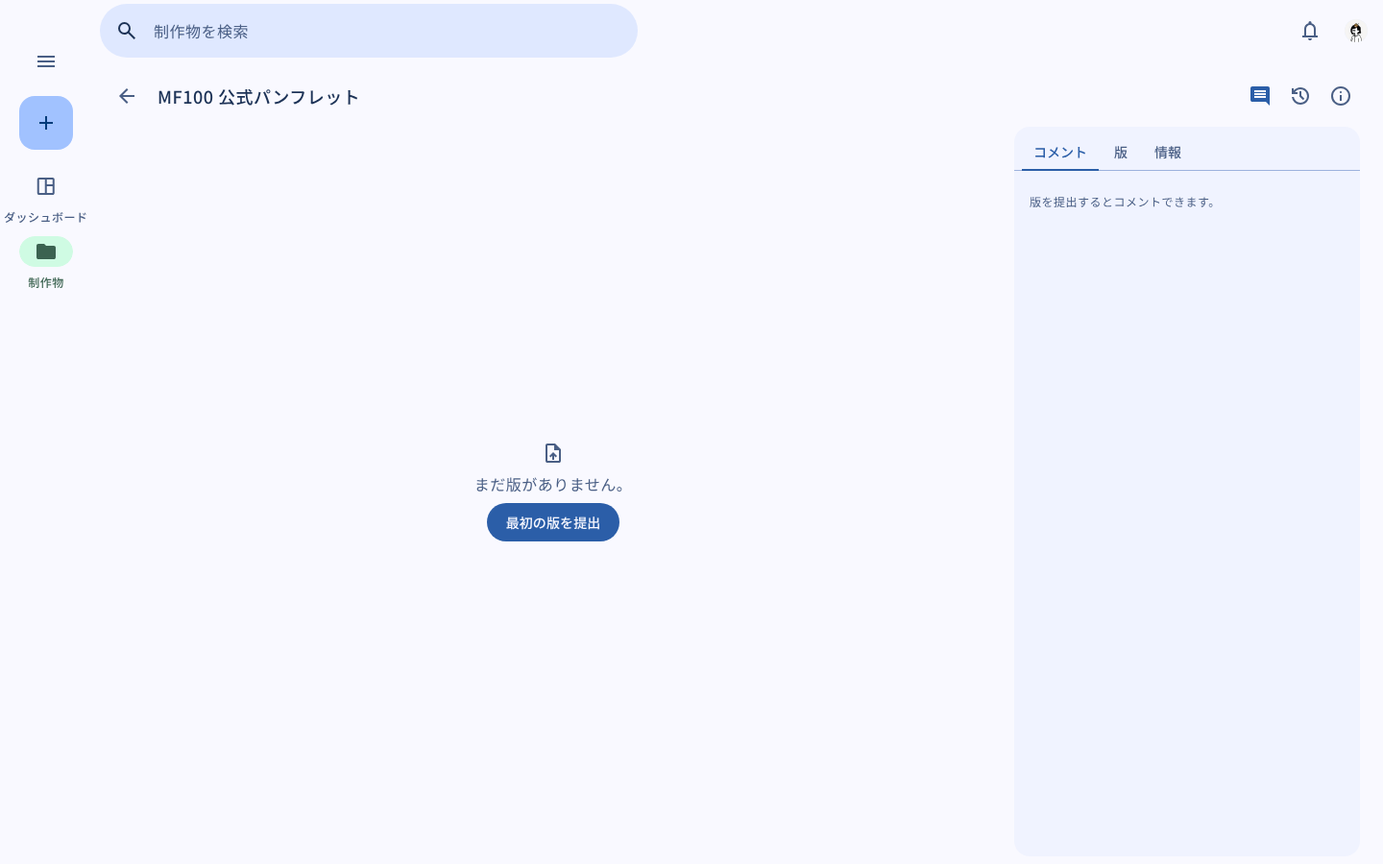
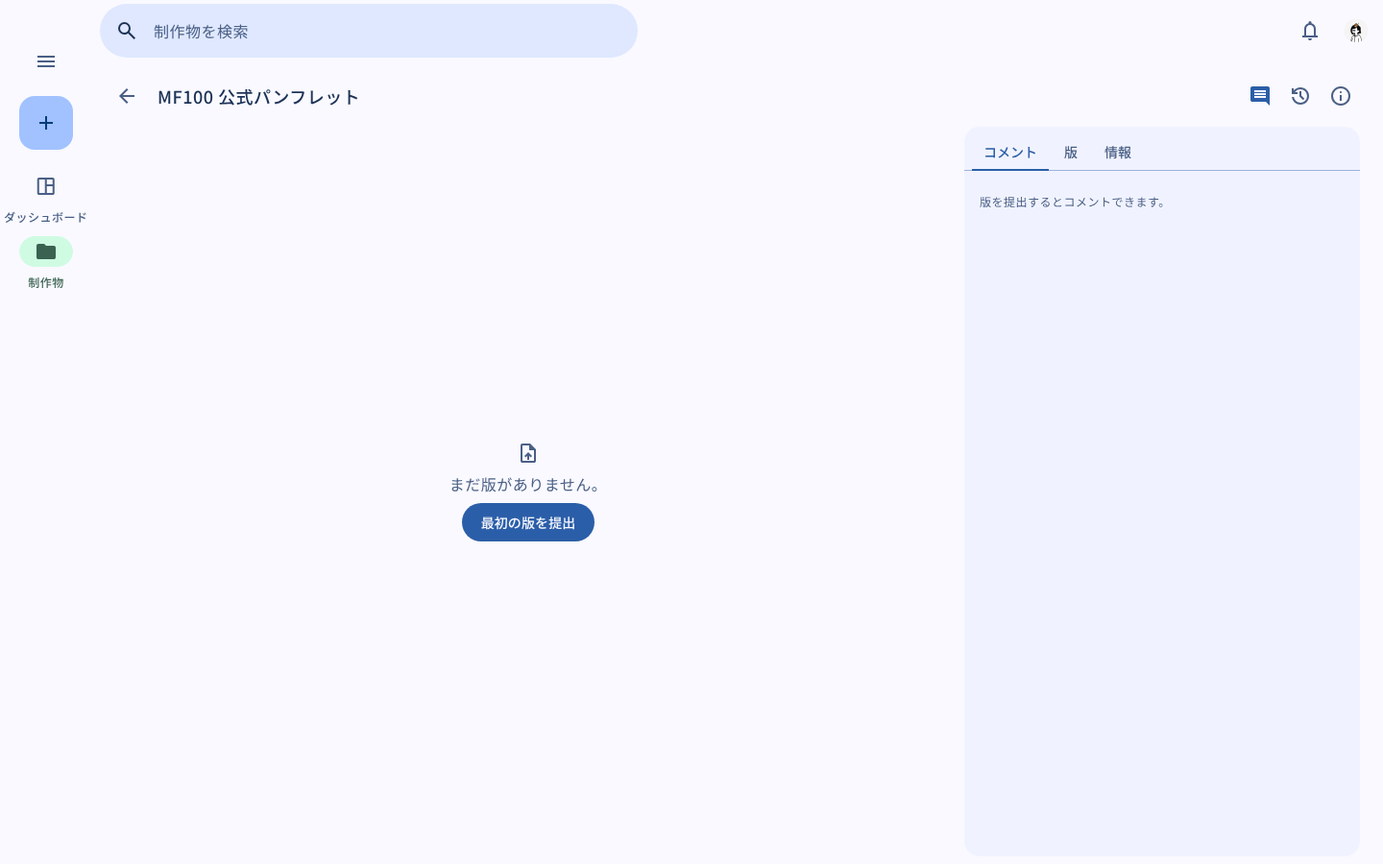
web: M3 の Layout scaffold（bars / rails / panes）に当てはめ、固定ペインを expanded 360 / large 以上 412 にする
- m3.material.io は環境のネットワークポリシーで到達不可のため、yusukebe/ax（GitHub から取得、bun で実行）で Compose の PaneScaffoldDirective 原典と Android ガイドを取得し、検索引用で m3.material.io の文言を補った（docs/UI_M3E.md §13 に出典と要確認を明記）
- 裏取り済み: scaffold の 3 領域と置く順、レールはペインの外で先頭端、ツールバーの窓端余白 16/24、ペイン数（1/1/2/3）、余白・スペーサー 24、固定ペイン 360（expanded）/ 412（large 以上）
- CSS に scaffold の領域対応を注記。large 以上の補助ペインと整列列を 412 に
- 撮影 34 画面・a11y 再取得、DECISIONS / HANDOVER 更新

Claude-Session: https://claude.ai/code/session_01X9TznCihnnBEBhcMh6UZ9t

Changed region(s): [[0.3125, 0.4978, 0.4688, 0.6222], [0.7188, 0.2178, 0.875, 0.2489], [0.7188, 0.1556, 0.875, 0.1867]]

diff --git a/apps/web/src/styles.css b/apps/web/src/styles.css
@@ -178,7 +178,12 @@ m3e-search-bar {
   color: var(--mf-on-surface-variant);
 }
 
-/* ---------- アプリ外枠（M3 Layout: ウィンドウサイズクラス compact <600 / medium 600–839 / expanded 840–1199 / large ≥1200） */
+/* ---------- アプリ外枠 ＝ M3 の Layout scaffold（bars / rails / panes）
+ * - bars（画面を縁取る）: .shell__appbar（上）、.shell__bar（compact の下部ナビ）
+ * - rails（ペインの外周）: .shell__nav（ナビゲーションレール。先頭端に全高、ペインの外）
+ * - panes（内容）: .shell__content（1 ペイン。エディタは .ws__body で 2 ペイン）
+ * 置く順: bars と rails を画面の縁に先に置き、残りを panes で埋める。
+ * ウィンドウサイズクラス: compact <600 / medium 600–839 / expanded 840–1199 / large ≥1200 */
 .shell {
   display: grid;
   grid-template-columns: auto 1fr;
@@ -1112,11 +1117,16 @@ m3e-search-bar {
   flex: 1;
   display: grid;
   grid-template-columns: minmax(0, 1fr);
-  gap: 24px;
+  gap: 24px; /* M3 のペイン間スペーサー 24（expanded 以上） */
   min-height: 0;
 }
 .ws__body--panel {
-  grid-template-columns: minmax(0, 1fr) 360px; /* M3 supporting pane: 固定 360 */
+  grid-template-columns: minmax(0, 1fr) 360px; /* M3 supporting pane: expanded の固定ペイン 360（Compose の既定 DefaultPreferredWidth） */
+}
+@media (min-width: 1200px) {
+  .ws__body--panel {
+    grid-template-columns: minmax(0, 1fr) 412px; /* large 以上の固定ペインは 412（M3 Breakpoints: large/extra-large、Compose DefaultPreferredWidthXL） */
+  }
 }
 .ws__viewer {
   position: relative;
@@ -1462,6 +1472,11 @@ m3e-search-bar {
   position: relative;
   width: 360px; /* 補助ペインと同じ幅 */
   flex: none;
+}
+@media (min-width: 1200px) {
+  .gutter {
+    width: 412px;
+  }
 }
 .gutter__item {
   position: absolute;

diff --git a/docs/DECISIONS.md b/docs/DECISIONS.md
@@ -22,20 +22,20 @@
 
 ## 実装上の仮置き（制度ではなく技術判断。レビュー対象）
 
-| 項目                     | 仮置き                                                                                                                                                                                                                                                                                                                                   | 根拠・備考                                                                                                       |
-| ------------------------ | ---------------------------------------------------------------------------------------------------------------------------------------------------------------------------------------------------------------------------------------------------------------------------------------------------------------------------------------- | ---------------------------------------------------------------------------------------------------------------- |
-| 制作物の登録者           | **Nogiku の権限で管理する（利用者決定 2026-10-10）**。組織権限 `works:create` を要求。Nogiku Access 未接続の MVP では全員が `["*"]` を持ち制限なし。登録者は主管担当に含まれる                                                                                                                                                           | `packages/domain/src/acl/OrgPermission.ts`。接続時は `NOGIKU_ACCESS_ENABLED=true` と `users.orgPermissions` 同期 |
-| システム管理者の初期設定 | 環境変数 `MF100_SYSTEM_ADMIN_SUBJECTS` の Nogiku sub を初回ログインで昇格。以後は管理画面                                                                                                                                                                                                                                                | ブートストラップ手段が必要                                                                                       |
-| ACL 候補ユーザー         | 一度でもログインした Nogiku ユーザーのみ検索可                                                                                                                                                                                                                                                                                           | Nogiku Access `users.read` 連携は後続                                                                            |
-| 校正者の割当             | **Nogiku の役職・個人で管理する（利用者決定）**。組織権限 `reviews:assign` または作品の制作者・edit 委任者。割当は閲覧 ACL を自動付与しない                                                                                                                                                                                              | 同上。閲覧範囲（D3）は管理者 ACL に集約                                                                          |
-| 校正の返信               | 受付中: 投稿権限者 / 終了後: 採否判断者のみ（**このままで良い — 利用者確認 2026-10-10**）                                                                                                                                                                                                                                                | D5 の暫定を維持                                                                                                  |
-| 0版の再提出              | **可**（利用者決定 2026-10-10）。通常版提出前に限る。0版からの校了は**不可**                                                                                                                                                                                                                                                             | `planRevision`                                                                                                   |
-| 期限ジョブ               | 1 分間隔の cron。拒否自体は各 mutation の時刻比較                                                                                                                                                                                                                                                                                        | ジョブ遅延に依存しない（A-04）                                                                                   |
-| ユーザー指定 UI          | **v1**: サインイン済みの委員を名前・メールで検索して選ぶ（`users.search` / `UserPicker`）。候補は一度でもログインしたユーザー                                                                                                                                                                                                            | Nogiku Access のユーザー一覧連携後は `users.search` の実装差し替えのみ                                           |
-| 指摘の担当者・訂正・持越 | **v1**: 担当者は採否判断権限者が指定。本文訂正は投稿者本人のみで原文は履歴に残す。持越は新版受付中に採否判断権限者が人手で実行（位置は引き継がない）                                                                                                                                                                                     | AI 提案（D13）は後続                                                                                             |
-| コメントの分類           | **投稿者は分類しない**（利用者決定 2026-10-13）。UI は本文のみ。内部では種別「修正提案」・重大度「重要」で保存し、未解決が残れば理由なしの校了を拒否。採否は 反映済／不採用／次版へ持越 の 3 つ                                                                                                                                          | 「重大」の明示や重大度変更は D6 の協議後                                                                         |
-| 締切・納期の単位         | **日付のみ**（その日の 0:00 JST、利用者決定 2026-10-13）。表示に JST は書かない                                                                                                                                                                                                                                                          | `DateField` / `jstDateToEpoch`                                                                                   |
-| 画面構成（UI）           | **比較ページから利用者が選択（2026-10-13）**: 左メニュー＋検索バー＋右上アカウント、一覧は 2 行のリスト、制作物は左一覧・右中身、詳細は版が主役で情報は右、校正画面は下部ツールバー＋レイアウト 3 種（横一覧／ピンの高さに整列／ピンだけ）＋範囲指定で即投稿、コメントは Google ドキュメント式（✓ と ⋮）、版提出はダイアログ、版比較あり | [`UI_M3E.md`](UI_M3E.md) §10                                                                                     |
-| 画面構成（IA）           | **3 画面＋管理（利用者決定 2026-10-13）**: ダッシュボード（担当・溜まっているもの、自分が関わる制作物のみ）／制作物（一覧＋登録ダイアログ）／エディタ（`/works/:id`、`/works/:id/v/N`。引き出し コメント／版／情報）。通知はベルのパネルだけ。左メニューは 2 つ                                                                          | [`UI_M3E.md`](UI_M3E.md) §11                                                                                     |
-| サイドバーとレイアウト   | **M3 のウィンドウサイズクラスに従う（利用者承認 2026-10-14）**: compact（<600）は下部バー 3 件（ダッシュボード・制作物・通知）、medium 以上はレール（メニュー・FAB「制作物を登録」・行き先）。expanded（840–1199）はモーダル展開、large（≥1200）は標準展開で既定は折りたたみ。補助ペインは 360 固定。余白 16/24 は要確認                 | [`UI_M3E.md`](UI_M3E.md) §12                                                                                     |
-| 版の無効化               | **v1**: 受付中の版のみ、提出権限者が理由付きで無効化。番号は欠番                                                                                                                                                                                                                                                                         | §5.1 `void`。校了済み・受付終了後は不可                                                                          |
+| 項目                     | 仮置き                                                                                                                                                                                                                                                                                                                                                                                      | 根拠・備考                                                                                                       |
+| ------------------------ | ------------------------------------------------------------------------------------------------------------------------------------------------------------------------------------------------------------------------------------------------------------------------------------------------------------------------------------------------------------------------------------------- | ---------------------------------------------------------------------------------------------------------------- |
+| 制作物の登録者           | **Nogiku の権限で管理する（利用者決定 2026-10-10）**。組織権限 `works:create` を要求。Nogiku Access 未接続の MVP では全員が `["*"]` を持ち制限なし。登録者は主管担当に含まれる                                                                                                                                                                                                              | `packages/domain/src/acl/OrgPermission.ts`。接続時は `NOGIKU_ACCESS_ENABLED=true` と `users.orgPermissions` 同期 |
+| システム管理者の初期設定 | 環境変数 `MF100_SYSTEM_ADMIN_SUBJECTS` の Nogiku sub を初回ログインで昇格。以後は管理画面                                                                                                                                                                                                                                                                                                   | ブートストラップ手段が必要                                                                                       |
+| ACL 候補ユーザー         | 一度でもログインした Nogiku ユーザーのみ検索可                                                                                                                                                                                                                                                                                                                                              | Nogiku Access `users.read` 連携は後続                                                                            |
+| 校正者の割当             | **Nogiku の役職・個人で管理する（利用者決定）**。組織権限 `reviews:assign` または作品の制作者・edit 委任者。割当は閲覧 ACL を自動付与しない                                                                                                                                                                                                                                                 | 同上。閲覧範囲（D3）は管理者 ACL に集約                                                                          |
+| 校正の返信               | 受付中: 投稿権限者 / 終了後: 採否判断者のみ（**このままで良い — 利用者確認 2026-10-10**）                                                                                                                                                                                                                                                                                                   | D5 の暫定を維持                                                                                                  |
+| 0版の再提出              | **可**（利用者決定 2026-10-10）。通常版提出前に限る。0版からの校了は**不可**                                                                                                                                                                                                                                                                                                                | `planRevision`                                                                                                   |
+| 期限ジョブ               | 1 分間隔の cron。拒否自体は各 mutation の時刻比較                                                                                                                                                                                                                                                                                                                                           | ジョブ遅延に依存しない（A-04）                                                                                   |
+| ユーザー指定 UI          | **v1**: サインイン済みの委員を名前・メールで検索して選ぶ（`users.search` / `UserPicker`）。候補は一度でもログインしたユーザー                                                                                                                                                                                                                                                               | Nogiku Access のユーザー一覧連携後は `users.search` の実装差し替えのみ                                           |
+| 指摘の担当者・訂正・持越 | **v1**: 担当者は採否判断権限者が指定。本文訂正は投稿者本人のみで原文は履歴に残す。持越は新版受付中に採否判断権限者が人手で実行（位置は引き継がない）                                                                                                                                                                                                                                        | AI 提案（D13）は後続                                                                                             |
+| コメントの分類           | **投稿者は分類しない**（利用者決定 2026-10-13）。UI は本文のみ。内部では種別「修正提案」・重大度「重要」で保存し、未解決が残れば理由なしの校了を拒否。採否は 反映済／不採用／次版へ持越 の 3 つ                                                                                                                                                                                             | 「重大」の明示や重大度変更は D6 の協議後                                                                         |
+| 締切・納期の単位         | **日付のみ**（その日の 0:00 JST、利用者決定 2026-10-13）。表示に JST は書かない                                                                                                                                                                                                                                                                                                             | `DateField` / `jstDateToEpoch`                                                                                   |
+| 画面構成（UI）           | **比較ページから利用者が選択（2026-10-13）**: 左メニュー＋検索バー＋右上アカウント、一覧は 2 行のリスト、制作物は左一覧・右中身、詳細は版が主役で情報は右、校正画面は下部ツールバー＋レイアウト 3 種（横一覧／ピンの高さに整列／ピンだけ）＋範囲指定で即投稿、コメントは Google ドキュメント式（✓ と ⋮）、版提出はダイアログ、版比較あり                                                    | [`UI_M3E.md`](UI_M3E.md) §10                                                                                     |
+| 画面構成（IA）           | **3 画面＋管理（利用者決定 2026-10-13）**: ダッシュボード（担当・溜まっているもの、自分が関わる制作物のみ）／制作物（一覧＋登録ダイアログ）／エディタ（`/works/:id`、`/works/:id/v/N`。引き出し コメント／版／情報）。通知はベルのパネルだけ。左メニューは 2 つ                                                                                                                             | [`UI_M3E.md`](UI_M3E.md) §11                                                                                     |
+| サイドバーとレイアウト   | **M3 のウィンドウサイズクラスに従う（利用者承認 2026-10-14）**: compact（<600）は下部バー 3 件（ダッシュボード・制作物・通知）、medium 以上はレール（メニュー・FAB「制作物を登録」・行き先）。expanded（840–1199）はモーダル展開、large（≥1200）は標準展開で既定は折りたたみ。補助ペインは expanded 360 / large 以上 412（Scaffold: bars / rails / panes、スペーサー 24）。余白 16 は要確認 | [`UI_M3E.md`](UI_M3E.md) §12–13                                                                                  |
+| 版の無効化               | **v1**: 受付中の版のみ、提出権限者が理由付きで無効化。番号は欠番                                                                                                                                                                                                                                                                                                                            | §5.1 `void`。校了済み・受付終了後は不可                                                                          |

diff --git a/docs/UI_M3E.md b/docs/UI_M3E.md
@@ -323,3 +323,37 @@
 
 - `vp check` 0 エラー、全パッケージ typecheck、`vp test`、デモビルド成功。
 - 撮影 34 画面（#29 標準展開レール、#30 モーダル展開レール、#31 FAB からの登録ダイアログ、#32 compact の通知、#33 compact の一覧、#34 シートを半分）。`pnpm a11y`: 残る指摘は M3E calendar 内部の 1 件のみ。
+
+## 13. Layout scaffold（2026-10-14・利用者指示「m3.material.io/foundations/layout/scaffold を調べて反映」）
+
+`m3.material.io` は作業環境のネットワークポリシーで拒否される（403 CONNECT）ため、本文は直接読めていない。yusukebe/ax（GitHub から取得し bun で実行）で到達できる情報源を集め、検索結果の引用で m3.material.io の文言を補った。**裏取り済み**と**要確認**を分けて書く。
+
+### 裏取り済み（出典）
+
+| 規定                                                                                                                                                                                               | 出典                                                                                                                                                                                                 |
+| -------------------------------------------------------------------------------------------------------------------------------------------------------------------------------------------------- | ---------------------------------------------------------------------------------------------------------------------------------------------------------------------------------------------------- |
+| Scaffold は適応レイアウトのすべてを **bars / rails / panes** に分ける。bars は画面を縁取り（アプリバー・下部ナビ）、rails はペインの外周（ナビレール・ツールバー・ペイン操作）、panes は内容の容器 | m3.material.io Scaffold overview / Layout overview（検索スニペット）                                                                                                                                 |
+| pane は fixed / flexible / floating / semi-permanent のいずれか                                                                                                                                    | 同上（各型の定義文は未取得）                                                                                                                                                                         |
+| 置く順: bars と rails を使える領域の縁に先に置き、残りを panes で埋める                                                                                                                            | m3.material.io Grids & spacing（検索スニペット）                                                                                                                                                     |
+| ナビゲーションレールはどのペインの外にも置き、常にウィンドウの先頭端に沿わせる。本文の中に入れない                                                                                                 | m3.material.io Navigation rail guidelines（検索スニペット）                                                                                                                                          |
+| ドック型ツールバーはウィンドウの下端のみ。浮遊ツールバーは窓端から横型 16 / 縦型 24 を保ち、ウィンドウやペインの縁をはみ出さない。レールがあるとき縦型は反対側                                     | m3.material.io Toolbars guidelines（検索スニペット）                                                                                                                                                 |
+| ペイン数: compact / medium は 1、expanded / large は 2、extra-large は 3 も可                                                                                                                      | m3.material.io Breakpoints（検索スニペット）、Compose `calculatePaneScaffoldDirective`（ax で原典取得）                                                                                              |
+| 余白 24・スペーサー 24（medium / large / extra-large）。medium の 2 ペインは 50/50 で独自幅を避ける                                                                                                | m3.material.io Breakpoints medium / large-extra-large（検索スニペット）                                                                                                                              |
+| 固定ペインの既定幅: expanded 360、large 以上 412                                                                                                                                                   | Compose `PaneScaffoldDirective.DefaultPreferredWidth = 360.dp` / `DefaultPreferredWidthXL = 412.dp`（ax で androidx 原典取得）、m3.material.io Breakpoints large/extra-large「固定ペインは既定 412」 |
+| 間隔は 8dp 尺度（space100 = 8）                                                                                                                                                                    | m3.material.io Spacing（検索スニペット）、M3E `MeasurementToken`                                                                                                                                     |
+
+### 本システムへの当てはめ
+
+| Scaffold の領域 | 本システム                                                                                                                 | 判定                                                                      |
+| --------------- | -------------------------------------------------------------------------------------------------------------------------- | ------------------------------------------------------------------------- |
+| bars            | 上: 検索バー付きアプリバー（`.shell__appbar`）。compact の下: ナビゲーションバー（`.shell__bar`）                          | 合致                                                                      |
+| rails           | ナビゲーションレール（`.shell__nav`）: 先頭端に全高、ペインの外。エディタの浮遊ツールバーはペイン内の下端から 16           | 合致                                                                      |
+| panes           | ダッシュボード・制作物: 1 ペイン（余白 24、compact 16）。エディタ: 主ペイン（紙面）＋固定ペイン（引き出し）、スペーサー 24 | 固定ペイン幅を **expanded 360 / large 以上 412** に修正（従来は常に 360） |
+| compact の補助  | 補助ペインは下（ボトムシート）、スペーサー 0                                                                               | 合致                                                                      |
+
+### 要確認（原典を読めたら確定する）
+
+- compact の余白 16（コミュニティ資料と Android ガイドの慣行。m3.material.io の compact ページでは未確認）。
+- pane の 4 型（fixed / flexible / floating / semi-permanent）の定義と、ペインを視覚的な容器（角丸の surface container）として描くかどうか。現状は 2 ペインのエディタだけ容器として描いている。
+- リサイズ可能なペインのスペーサーに置くドラッグハンドル（M3 は「リサイズできるならハンドルを置く」）。未実装。
+- `m3.material.io` を環境の Allowed domains に加えれば `ax https://m3.material.io/foundations/layout/scaffold/guidelines --md` で原典を読める。

diff --git a/docs/HANDOVER.md b/docs/HANDOVER.md
@@ -9,7 +9,7 @@
 - Convex: スキーマ、Nogiku OIDC provider（UniQ 由来）とモック、ポートアダプタ、公開関数一式、cron、convex-test による統合テスト。
 - Hono API: R2 ストリーミング提出（sha256 検証、サイズ照合、失敗記録）、認可付き配信、JWT 検証、CORS。
 - Web デモモード（`--mode demo`）: バックエンド無しで Convex の実関数をブラウザ内実行。Playwright で 34 画面を撮影済み（`docs/screenshots`）。
-- **Material 3 Expressive 適用**（[`UI_M3E.md`](UI_M3E.md)）: テーマを body 直下に移して動的カラー・ダークモードを有効化、フォーム／カード／チップ／リスト／ナビ／ステッパー／日付ピッカーを M3E 部品に置換。2 回目以降の見直しで情報量と塗りを削減し（`UI_M3E.md` §8–9）、4 回目で利用者が比較ページから選んだ構成（検索バー付きアプリバー、2 行リスト、list-detail、下部ツールバーとレイアウト切替、範囲指定で即投稿、Google ドキュメント式のコメント、提出ダイアログ、版比較）に作り直した（§10）。5 回目で画面構成そのものを **ダッシュボード／制作物／エディタ** の 3 画面＋管理に絞り、通知はベルのパネル、URL は制作物が主語にした（§11）。6 回目でサイドバーとレイアウトを M3 のウィンドウサイズクラス（600 / 840 / 1200）に合わせ、レール（メニュー・FAB「制作物を登録」・行き先。large は標準展開、expanded はモーダル展開）と compact の下部バー 3 件（通知を含む）にした（§12）。compact は検索バーがアプリバー（アバター 30 を末尾）、エディタは独自のトップアプリバー＋幅に合わせた紙面＋覗き見のボトムシート（§12 後半）。締切・納期は日付のみ（0:00 JST）。
+- **Material 3 Expressive 適用**（[`UI_M3E.md`](UI_M3E.md)）: テーマを body 直下に移して動的カラー・ダークモードを有効化、フォーム／カード／チップ／リスト／ナビ／ステッパー／日付ピッカーを M3E 部品に置換。2 回目以降の見直しで情報量と塗りを削減し（`UI_M3E.md` §8–9）、4 回目で利用者が比較ページから選んだ構成（検索バー付きアプリバー、2 行リスト、list-detail、下部ツールバーとレイアウト切替、範囲指定で即投稿、Google ドキュメント式のコメント、提出ダイアログ、版比較）に作り直した（§10）。5 回目で画面構成そのものを **ダッシュボード／制作物／エディタ** の 3 画面＋管理に絞り、通知はベルのパネル、URL は制作物が主語にした（§11）。6 回目でサイドバーとレイアウトを M3 のウィンドウサイズクラス（600 / 840 / 1200）に合わせ、レール（メニュー・FAB「制作物を登録」・行き先。large は標準展開、expanded はモーダル展開）と compact の下部バー 3 件（通知を含む）にした（§12）。compact は検索バーがアプリバー（アバター 30 を末尾）、エディタは独自のトップアプリバー＋幅に合わせた紙面＋覗き見のボトムシート（§12 後半）。M3 の Layout scaffold（bars / rails / panes）に当てはめ、固定ペインは expanded 360 / large 以上 412（§13。m3.material.io は環境から到達不可のため、ax で取れた原典と検索引用が根拠）。締切・納期は日付のみ（0:00 JST）。
 - **v1 追加**（[`V1_GAP.md`](V1_GAP.md)）: 専門確認と校了ガード、指摘の担当者・訂正・次版持越、版の無効化、アプリ内通知と期限リマインド、放置セッション清掃と R2 孤立オブジェクト削除、ユーザー選択 UI、制作物の編集・ライフサイクル、外部媒体の議論結果記録、文章の閲覧・範囲指摘、axe-core によるアクセシビリティ監査（19 画面で指摘 0）。
 - Web: サインイン（本物／モック）、ダッシュボード（あなたの担当・溜まっているもの）、制作物一覧・登録、エディタ（PDF.js／画像／文章の矩形・ピン・範囲、スレッド、採否、返信、確認完了、版の履歴・提出・比較・無効化、基本情報・校了・編集・閲覧権限・専門確認）、通知のベル、管理（ACL・管理者付与・監査ログ）。本番ビルド成功。
 
